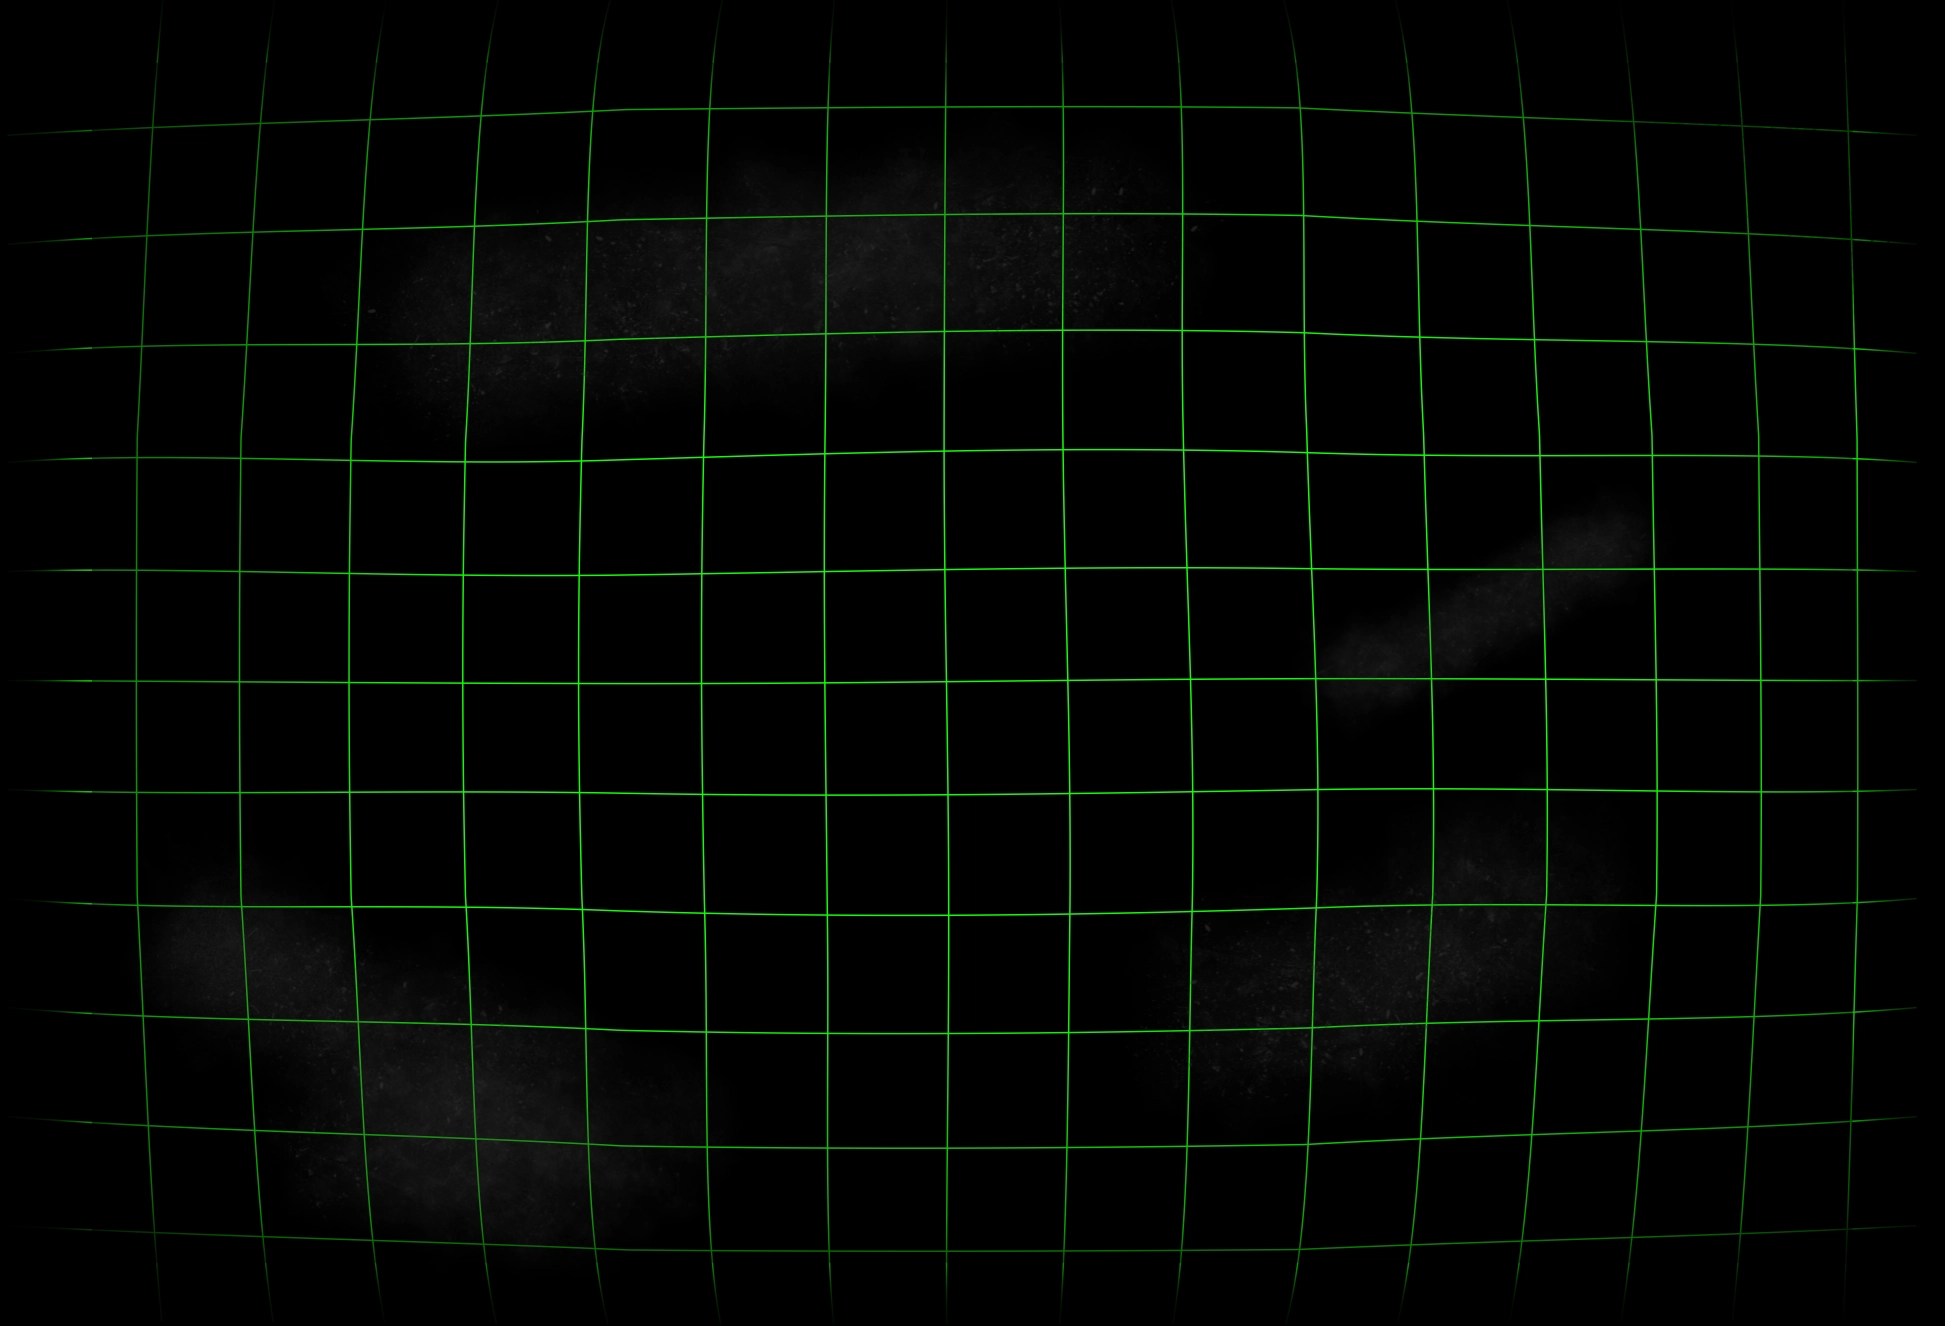
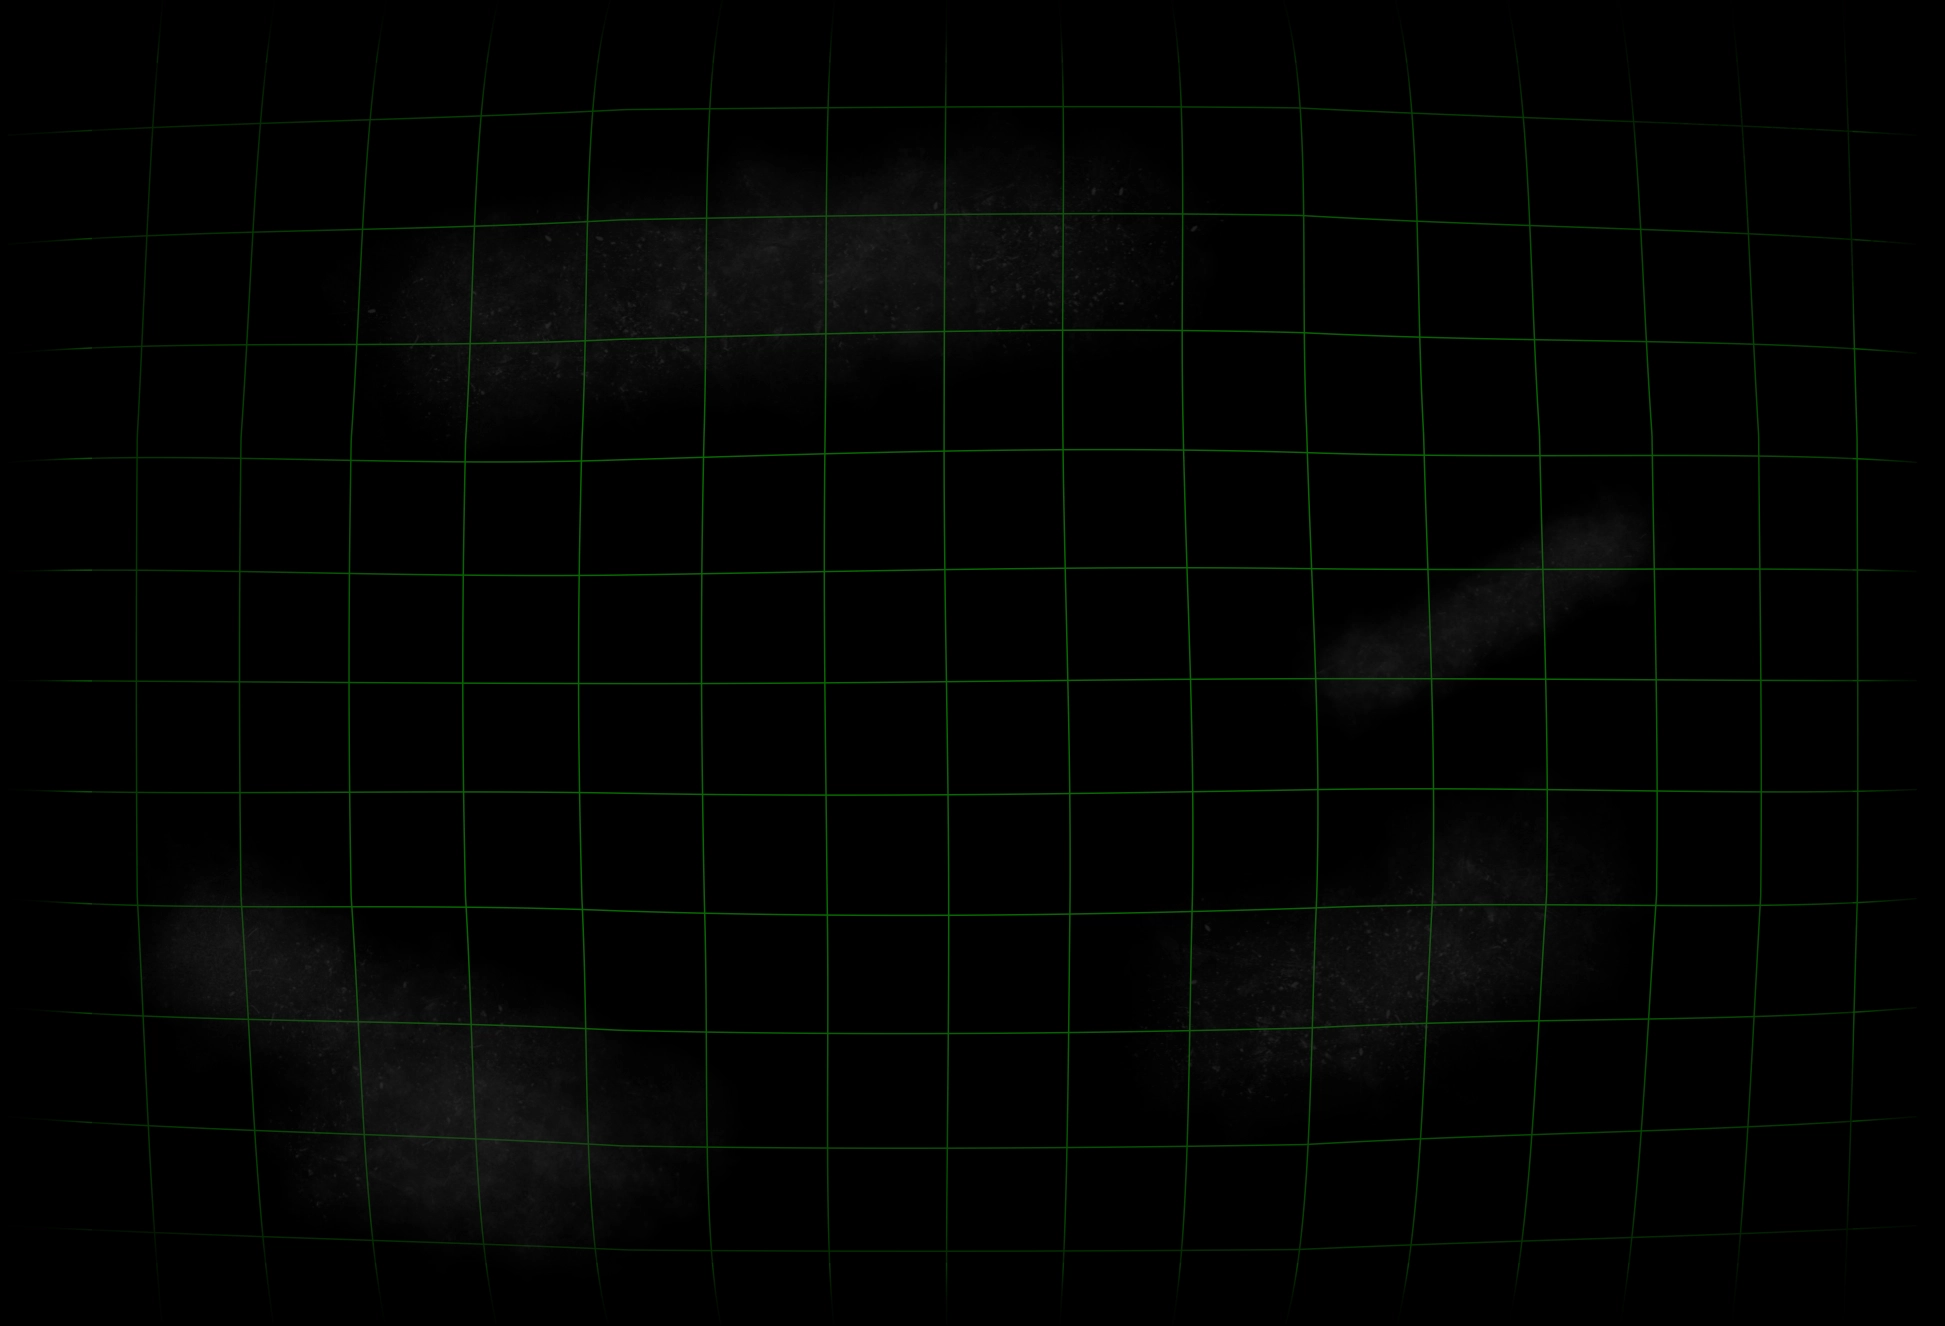
feat: added autofocus for main command inputs after error state. reduced the opacity of background grid image to improve visual clarity.

diff --git a/src/components/terminal/Terminal.tsx b/src/components/terminal/Terminal.tsx
@@ -1,4 +1,4 @@
-import { useEffect, useState, useContext } from "react";
+import { useEffect, useState, useContext,} from "react";
 import {ChevronRightCircle, LoaderCircle } from "lucide-react";
 import LeaveReq from "../LeaveReq";
 import { useNavigate } from "react-router-dom";
@@ -25,6 +25,8 @@ export default function CommandCentre() {
   const { playerData, setPlayerData } = useContext(PlayerContext);
   const navigate = useNavigate();
 
+  const inputRef = useRef<HTMLInputElement>(null)
+
   const tooltipRef1 = useRef<TooltipRefProps>(null);
 
   //turn off loading indicator after set interval
@@ -40,6 +42,12 @@ export default function CommandCentre() {
     }
 }
 
+useEffect(()=>{
+  if(!errorState){
+      inputRef.current?.focus()
+
+  }
+},[errorState])
   function handleCommand(e: React.SubmitEvent<HTMLFormElement>) {
     e.preventDefault();
     const formValues = new FormData(e.target);
@@ -81,8 +89,9 @@ export default function CommandCentre() {
           break;
         default:
           setErrorState("Command not recognized: " + command);
-          setLeaveReq(false);
+          playCustomSound("errorSound")
           e.currentTarget.reset();
+          leaveReq && setLeaveReq(false);
           break;
       }
     }
@@ -123,8 +132,10 @@ export default function CommandCentre() {
                       id="command-centre-input"
                       name="command"
                       autoComplete="off"
+                      ref={inputRef}
+                      autoFocus
              
-                    ></input>
+                    />
                     <button onClick={()=>playCustomSound("buttonPress")} aria-label="Submit navigation command" id="command-centre-submit-button">
                       <ChevronRightCircle size={28} />
                     </button>
@@ -149,6 +160,9 @@ export default function CommandCentre() {
                     <li className="command-row">
                       <p>Review open cases</p>
                       <p>nav.review</p>
+                    </li>
+                    <li className="command-row">
+                      <p>Personal Record</p> <p>nav.personal</p>
                     </li>
                     <li className="command-row">
                       <p>Upgrade Terminal</p> <p>nav.upgrade</p>

diff --git a/src/components/nav/CommandInput.tsx b/src/components/nav/CommandInput.tsx
@@ -1,6 +1,6 @@
 import { ChevronRightCircle, CircleQuestionMark } from "lucide-react";
 import { useNavigate } from "react-router-dom";
-import React, { useState, useContext } from "react";
+import React, { useState, useContext, useEffect, useRef } from "react";
 import { CurrentSlugContext } from "../../context_providers/CurrentSlugContext";
 import AvailableCommandsList from "./AvailableCommandsList";
 import { ErrorContext } from "../../context_providers/ErrorContext";
@@ -14,10 +14,17 @@ import { playCustomSound, playKeyStroke } from "../../assets/utils/helpers";
 export default function CommandInput() {
   const [showCommands, setShowCommands] = useState<boolean>(false);
   const { setCurrentSlug } = useContext(CurrentSlugContext);
-  const { setErrorState } = useContext(ErrorContext);
+  const { errorState,setErrorState } = useContext(ErrorContext);
   const { tutorialState } = useContext(TutorialContext);
   const {playerData, setPlayerData} = useContext(PlayerContext)
   const navigate = useNavigate();
+  const inputRef = useRef<HTMLInputElement>(null)
+
+useEffect(()=>{
+  if(!errorState){
+    inputRef.current?.focus()
+  }
+},[errorState])
 
   function doLogout(){
     if(playerData) {
@@ -107,6 +114,7 @@ export default function CommandInput() {
           id="nav-text-input"
           name="command"
           autoComplete="off"
+          ref={inputRef}
           onChange={() => {
             playKeyStroke();
           }}

diff --git a/src/assets/css/App.css b/src/assets/css/App.css
@@ -24,6 +24,7 @@ body {
     linear-gradient(to right, #395439 1px, transparent 1px),
     linear-gradient(to bottom, #395439 1px, transparent 1px);
     background-size: 120px 120px;
+
 }
 h1, p {
   text-shadow: 
